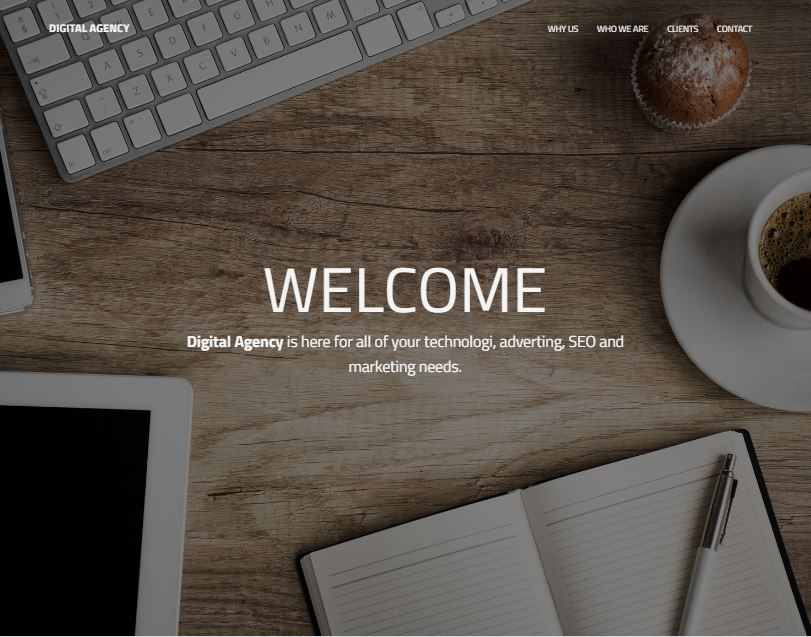
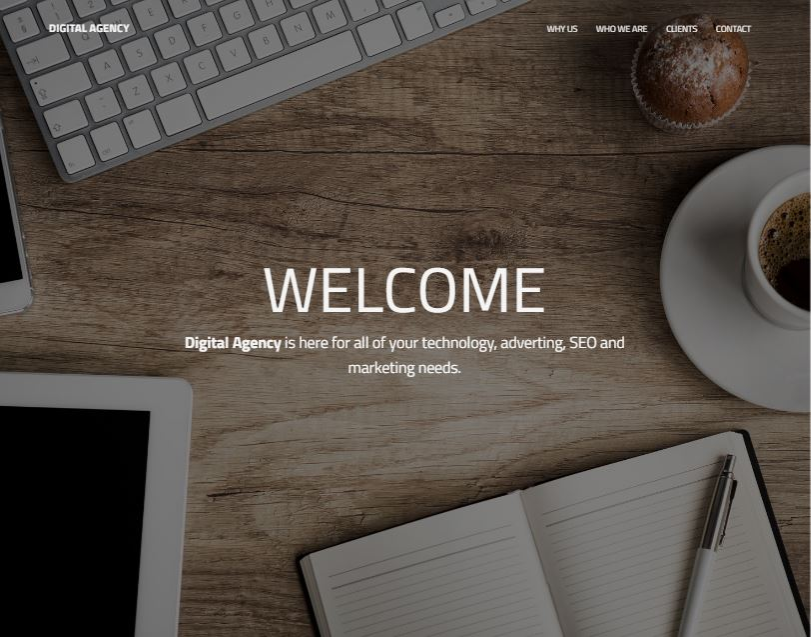
v1 responsive

diff --git a/index.html b/index.html
@@ -48,28 +48,24 @@
             </figure>
             <div class="about__content">
                 <p class="about__paragraph">
-                    Bacon ipsum dolor amet pork loin venison drumstick 
-                    kevin hamburger alcatra swine pig spare ribs doner 
-                    chuck short loin. Prosciutto picanha sirloin boudin 
-                    ground round turkey beef.
+                    I'm geodesy and cartography engineer living in Warsaw. 
+                    Now I work as a land surveyor but I'd like to change my 
+                    line of work and take up new challenges as front-end developer.
                 </p>
                 <p class="about__paragraph">
-                    Picanha landjaeger flank 
-                    tail short ribs, drumstick shoulder sirloin ham hock 
-                    burgdoggen pork chop. Jerky landjaeger venison ball 
-                    tip sirloin sausage ribeye picanha chuck, corned beef 
-                    tri-tip biltong short loin. Kielbasa alcatra venison t-bone shoulder meatloaf.
-                    Bacon ipsum dolor amet pork loin venison drumstick 
-                    kevin hamburger alcatra swine pig spare ribs doner 
-                    chuck short loin. Prosciutto picanha sirloin boudin 
-                    ground round turkey beef.
+                    In June 2017 I decided to start learning web development. Since then 
+                    I've completed a few online courses concerning not only the main technologies - 
+                    HTML, CSS and JavaScript but also jQuery, Bootstrap, Sass and LESS, Git, BEM methodology and web design.
+                    In my projects I take care of making the code clear, semantic and responsive 
+                    as well as the page look modern and highly esthetic. What I want to focus on now is understanding 
+                    deeply how JS works behind scenes and using the programming language in practice more.
                 </p>
                 <p class="about__paragraph">
-                    Picanha landjaeger flank 
-                    tail short ribs, drumstick shoulder sirloin ham hock 
-                    burgdoggen pork chop. Jerky landjaeger venison ball 
-                    tip sirloin sausage ribeye picanha chuck, corned beef 
-                    tri-tip biltong short loin. Kielbasa alcatra venison t-bone shoulder meatloaf.
+                    The important part of my life are travels and photography (combination of which you can see below). 
+                    Travelling the world let me improve the interpersonal skills and broaden my horizons and the practical 
+                    advantage of photographic hobby is ability to use graphic programmes like Photoshop.  I'm also interested in 
+                    astrology and space technology - it make me breathless when Elon Musk's reusable rockets launch and than their 
+                    boosters return after a few minutes.
                 </p>
             </div>
         </section>
@@ -128,7 +124,7 @@
         <section class="abilities" id="abilities">
             <div class="abilities-known mb-lg">
                 <h3 class="heading-3 mb-md">
-                    Technologies I can use
+                    Technology stack
                 </h3>
                 <ul class="abilities-known__list">
                     <li class="abilities-known__item">
